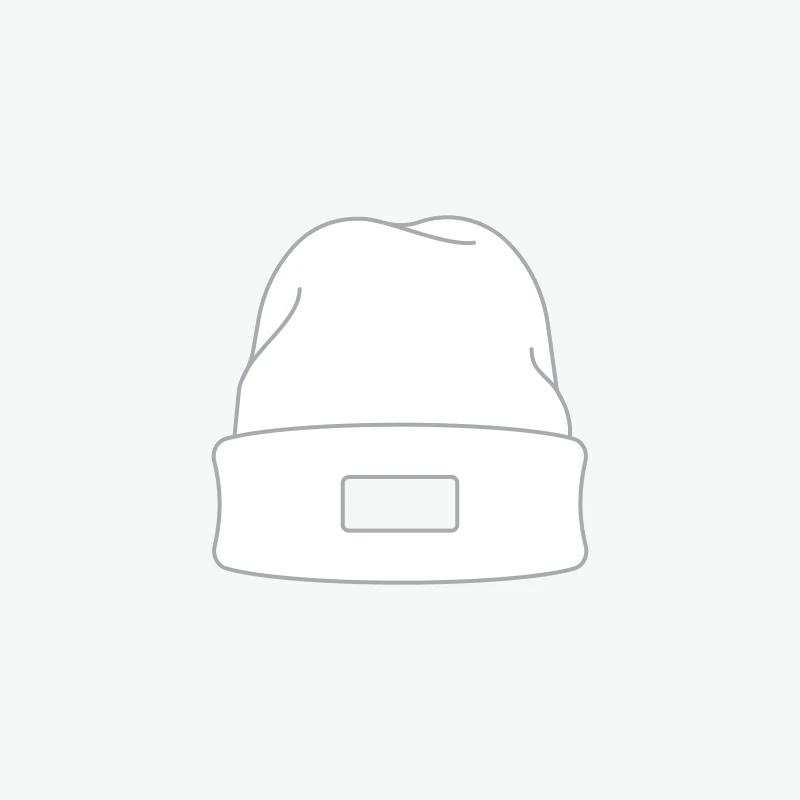
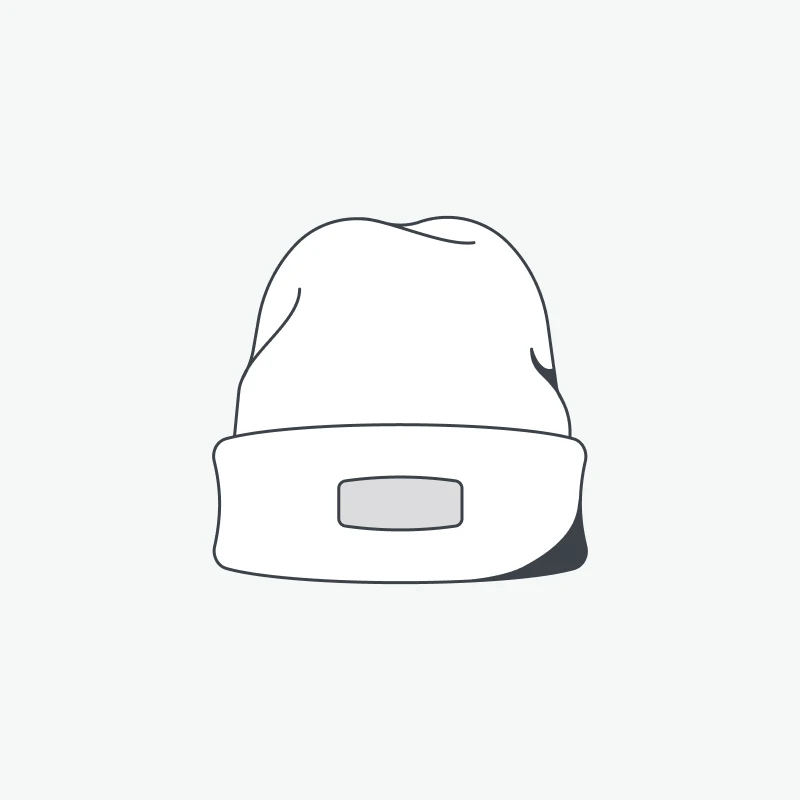
replaced and renamed images (https://github.com/woocommerce/woo-themes/pull/145)

diff --git a/themes/purple/patterns/two-columns-full-width-categories.php b/themes/purple/patterns/two-columns-full-width-categories.php
@@ -8,8 +8,8 @@
 <!-- wp:group {"metadata":{"name":"Two Columns Fullwidth","categories":["Columns","Gallery"],"patternName":"woostarter/two-columns-full-width-categories"},"align":"full","style":{"spacing":{"margin":{"top":"0","bottom":"0"}}},"layout":{"type":"default"}} -->
 <div class="wp-block-group alignfull" style="margin-top:0;margin-bottom:0"><!-- wp:columns {"align":"wide","className":"is-style-section-1","style":{"spacing":{"blockGap":{"top":"0","left":"0"}}}} -->
 <div class="wp-block-columns alignwide is-style-section-1"><!-- wp:column {"verticalAlignment":"center","width":"50%"} -->
-<div class="wp-block-column is-vertically-aligned-center" style="flex-basis:50%"><!-- wp:cover {"url":"<?php echo esc_url( get_template_directory_uri() ); ?>/assets/images/long-sleeve-a.webp","alt":"<?php esc_html_e('Illustration of a long sleeved shirt', 'woostarter');?>","dimRatio":20,"overlayColor":"theme-2","isUserOverlayColor":true,"isDark":false,"sizeSlug":"full","style":{"dimensions":{"aspectRatio":"1"},"elements":{"link":{"color":{"text":"var:preset|color|theme-1"}}}},"textColor":"theme-1","layout":{"type":"constrained"}} -->
-<div class="wp-block-cover is-light has-theme-1-color has-text-color has-link-color"><img class="wp-block-cover__image-background  size-full" alt="<?php esc_html_e('Illustration of a long sleeved shirt', 'woostarter');?>" src="<?php echo esc_url( get_template_directory_uri() ); ?>/assets/images/long-sleeve-a.webp" data-object-fit="cover"/><span aria-hidden="true" class="wp-block-cover__background has-theme-2-background-color has-background-dim-20 has-background-dim"></span><div class="wp-block-cover__inner-container"><!-- wp:paragraph {"align":"center","placeholder":"Write title…","fontSize":"large"} -->
+<div class="wp-block-column is-vertically-aligned-center" style="flex-basis:50%"><!-- wp:cover {"url":"<?php echo esc_url( get_template_directory_uri() ); ?>/assets/images/long-sleeve.webp","alt":"<?php esc_html_e('Illustration of a long sleeved shirt', 'woostarter');?>","dimRatio":20,"overlayColor":"theme-2","isUserOverlayColor":true,"isDark":false,"sizeSlug":"full","style":{"dimensions":{"aspectRatio":"1"},"elements":{"link":{"color":{"text":"var:preset|color|theme-1"}}}},"textColor":"theme-1","layout":{"type":"constrained"}} -->
+<div class="wp-block-cover is-light has-theme-1-color has-text-color has-link-color"><img class="wp-block-cover__image-background  size-full" alt="<?php esc_html_e('Illustration of a long sleeved shirt', 'woostarter');?>" src="<?php echo esc_url( get_template_directory_uri() ); ?>/assets/images/long-sleeve.webp" data-object-fit="cover"/><span aria-hidden="true" class="wp-block-cover__background has-theme-2-background-color has-background-dim-20 has-background-dim"></span><div class="wp-block-cover__inner-container"><!-- wp:paragraph {"align":"center","placeholder":"Write title…","fontSize":"large"} -->
 <p class="has-text-align-center has-large-font-size"><?php /* Translators: 1. is the start of a 'a' HTML element, 2. is the end of a 'a' HTML element */ 
 echo sprintf( esc_html__( '%1$sShop Women%2$s', 'woostarter' ), '<a href="' . esc_url( '#' ) . '" data-type="product_cat" data-id="19">', '</a>' ); ?></p>
 <!-- /wp:paragraph --></div></div>
@@ -17,8 +17,8 @@ echo sprintf( esc_html__( '%1$sShop Women%2$s', 'woostarter' ), '<a href="' . es
 <!-- /wp:column -->
 
 <!-- wp:column {"verticalAlignment":"bottom","width":"50%","style":{"spacing":{"padding":{"top":"0","bottom":"0","left":"0","right":"0"},"blockGap":"0"}},"layout":{"type":"default"}} -->
-<div class="wp-block-column is-vertically-aligned-bottom" style="padding-top:0;padding-right:0;padding-bottom:0;padding-left:0;flex-basis:50%"><!-- wp:cover {"url":"<?php echo esc_url( get_template_directory_uri() ); ?>/assets/images/beanie-b.webp","alt":"<?php esc_html_e('Illustration of a woollen beanie', 'woostarter');?>","dimRatio":20,"overlayColor":"theme-2","isUserOverlayColor":true,"isDark":false,"sizeSlug":"full","style":{"dimensions":{"aspectRatio":"1"},"elements":{"link":{"color":{"text":"var:preset|color|theme-1"}}}},"textColor":"theme-1","layout":{"type":"constrained"}} -->
-<div class="wp-block-cover is-light has-theme-1-color has-text-color has-link-color"><img class="wp-block-cover__image-background  size-full" alt="<?php esc_html_e('Illustration of a woollen beanie', 'woostarter');?>" src="<?php echo esc_url( get_template_directory_uri() ); ?>/assets/images/beanie-b.webp" data-object-fit="cover"/><span aria-hidden="true" class="wp-block-cover__background has-theme-2-background-color has-background-dim-20 has-background-dim"></span><div class="wp-block-cover__inner-container"><!-- wp:paragraph {"align":"center","placeholder":"Write title…","fontSize":"large"} -->
+<div class="wp-block-column is-vertically-aligned-bottom" style="padding-top:0;padding-right:0;padding-bottom:0;padding-left:0;flex-basis:50%"><!-- wp:cover {"url":"<?php echo esc_url( get_template_directory_uri() ); ?>/assets/images/beanie-a.webp","alt":"<?php esc_html_e('Illustration of a woollen beanie', 'woostarter');?>","dimRatio":20,"overlayColor":"theme-2","isUserOverlayColor":true,"isDark":false,"sizeSlug":"full","style":{"dimensions":{"aspectRatio":"1"},"elements":{"link":{"color":{"text":"var:preset|color|theme-1"}}}},"textColor":"theme-1","layout":{"type":"constrained"}} -->
+<div class="wp-block-cover is-light has-theme-1-color has-text-color has-link-color"><img class="wp-block-cover__image-background  size-full" alt="<?php esc_html_e('Illustration of a woollen beanie', 'woostarter');?>" src="<?php echo esc_url( get_template_directory_uri() ); ?>/assets/images/beanie-a.webp" data-object-fit="cover"/><span aria-hidden="true" class="wp-block-cover__background has-theme-2-background-color has-background-dim-20 has-background-dim"></span><div class="wp-block-cover__inner-container"><!-- wp:paragraph {"align":"center","placeholder":"Write title…","fontSize":"large"} -->
 <p class="has-text-align-center has-large-font-size"><?php /* Translators: 1. is the start of a 'a' HTML element, 2. is the end of a 'a' HTML element */ 
 echo sprintf( esc_html__( '%1$sShop Men%2$s', 'woostarter' ), '<a href="' . esc_url( '#' ) . '" data-type="attachment" data-id="160">', '</a>' ); ?></p>
 <!-- /wp:paragraph --></div></div>

diff --git a/themes/purple/patterns/categories-on-three-columns.php b/themes/purple/patterns/categories-on-three-columns.php
@@ -18,8 +18,8 @@
 <!-- /wp:column -->
 
 <!-- wp:column -->
-<div class="wp-block-column"><!-- wp:cover {"url":"<?php echo esc_url( get_template_directory_uri() ); ?>/assets/images/turtleneck-a.webp","alt":"<?php esc_attr_e( 'An illustration of a turtleneck sweater', 'woostarter' ); ?>","dimRatio":10,"customOverlayColor":"#8d8d94","isUserOverlayColor":false,"contentPosition":"bottom center","isDark":false,"sizeSlug":"full","style":{"spacing":{"padding":{"top":"var:preset|spacing|50","bottom":"var:preset|spacing|50"}},"dimensions":{"aspectRatio":"3/4"}},"layout":{"type":"constrained"}} -->
-<div class="wp-block-cover is-light has-custom-content-position is-position-bottom-center" style="padding-top:var(--wp--preset--spacing--50);padding-bottom:var(--wp--preset--spacing--50)"><img class="wp-block-cover__image-background  size-full" alt="<?php esc_attr_e( 'An illustration of a turtleneck sweater', 'woostarter' ); ?>" src="<?php echo esc_url( get_template_directory_uri() ); ?>/assets/images/turtleneck-a.webp" data-object-fit="cover"/><span aria-hidden="true" class="wp-block-cover__background has-background-dim-10 has-background-dim" style="background-color:#8d8d94"></span><div class="wp-block-cover__inner-container"><!-- wp:buttons {"layout":{"type":"flex","justifyContent":"center"}} -->
+<div class="wp-block-column"><!-- wp:cover {"url":"<?php echo esc_url( get_template_directory_uri() ); ?>/assets/images/turtleneck.webp","alt":"<?php esc_attr_e( 'An illustration of a turtleneck sweater', 'woostarter' ); ?>","dimRatio":10,"customOverlayColor":"#8d8d94","isUserOverlayColor":false,"contentPosition":"bottom center","isDark":false,"sizeSlug":"full","style":{"spacing":{"padding":{"top":"var:preset|spacing|50","bottom":"var:preset|spacing|50"}},"dimensions":{"aspectRatio":"3/4"}},"layout":{"type":"constrained"}} -->
+<div class="wp-block-cover is-light has-custom-content-position is-position-bottom-center" style="padding-top:var(--wp--preset--spacing--50);padding-bottom:var(--wp--preset--spacing--50)"><img class="wp-block-cover__image-background  size-full" alt="<?php esc_attr_e( 'An illustration of a turtleneck sweater', 'woostarter' ); ?>" src="<?php echo esc_url( get_template_directory_uri() ); ?>/assets/images/turtleneck.webp" data-object-fit="cover"/><span aria-hidden="true" class="wp-block-cover__background has-background-dim-10 has-background-dim" style="background-color:#8d8d94"></span><div class="wp-block-cover__inner-container"><!-- wp:buttons {"layout":{"type":"flex","justifyContent":"center"}} -->
 <div class="wp-block-buttons"><!-- wp:button {"backgroundColor":"theme-1","textColor":"theme-2","style":{"elements":{"link":{"color":{"text":"var:preset|color|theme-2"}}}}} -->
 <div class="wp-block-button"><a class="wp-block-button__link has-theme-2-color has-theme-1-background-color has-text-color has-background has-link-color wp-element-button"><?php esc_html_e('Shop Sweaters', 'woostarter');?></a></div>
 <!-- /wp:button --></div>
